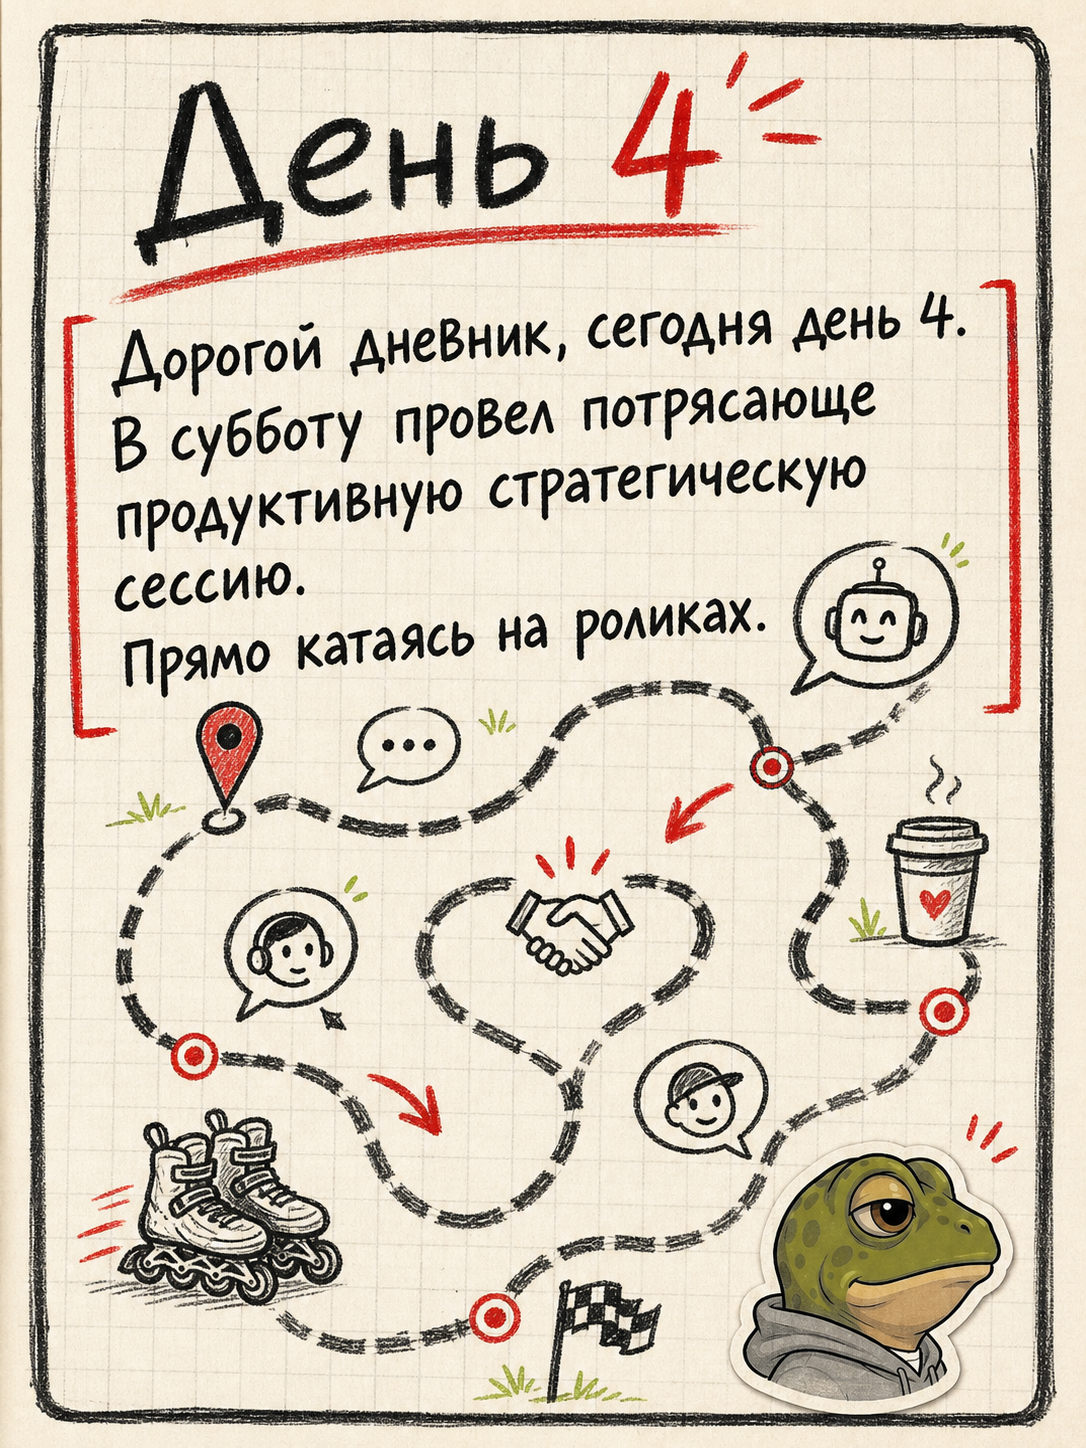
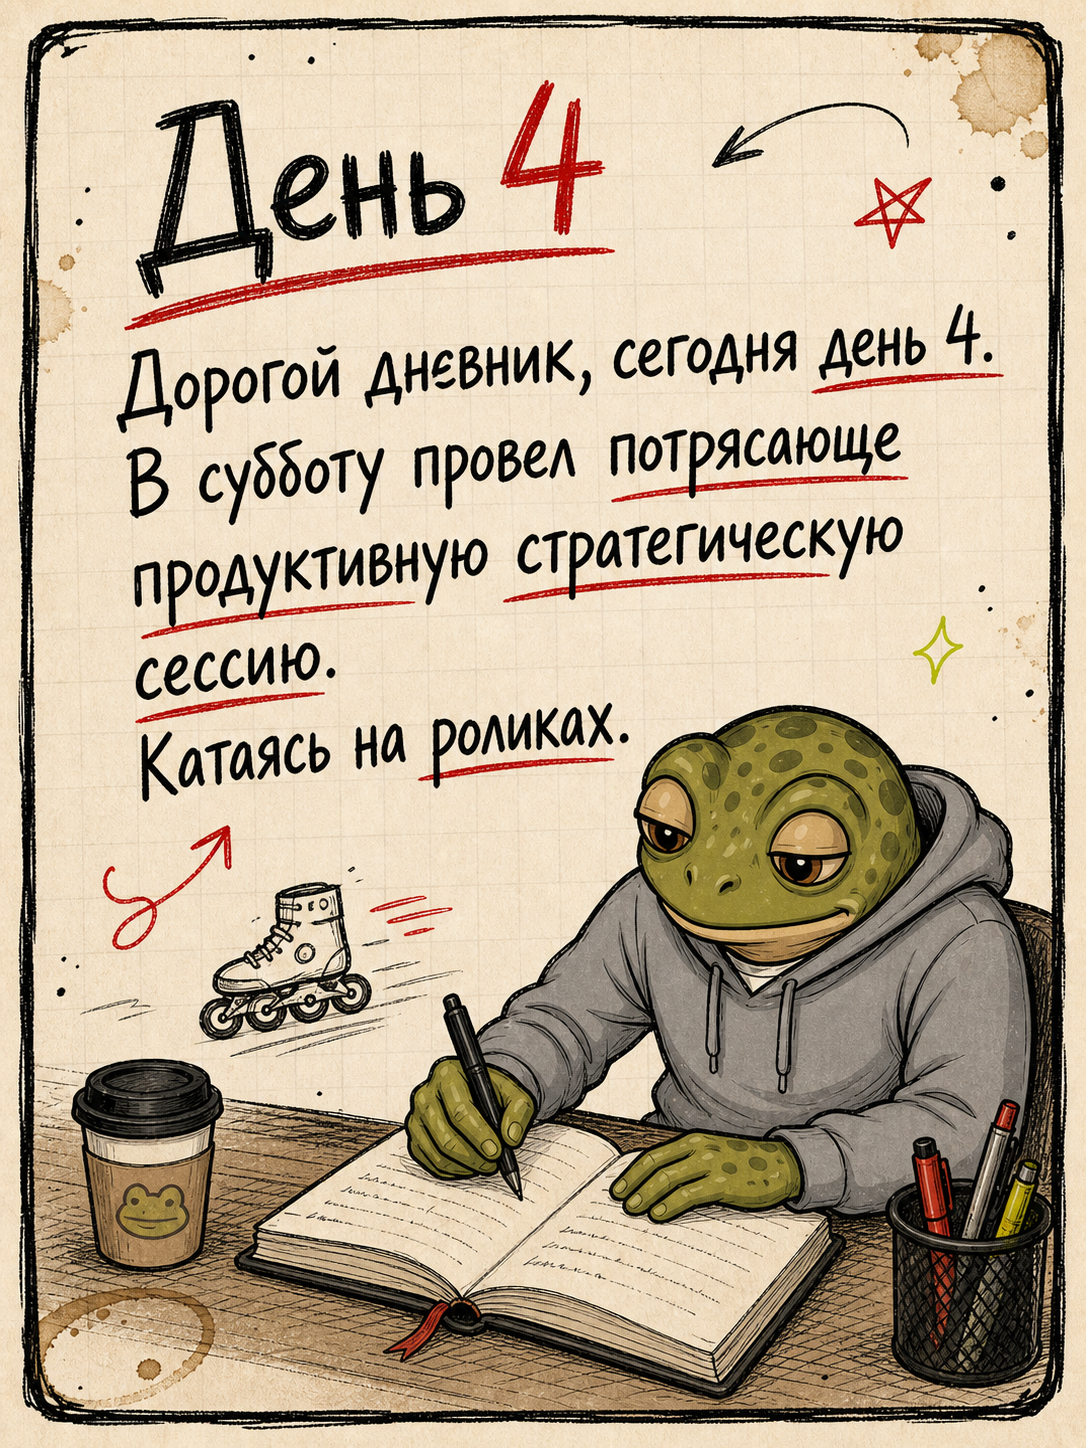
Regenerate day four first slide

diff --git a/src/lib/diaryFactory.ts b/src/lib/diaryFactory.ts
@@ -310,10 +310,10 @@ export const diaryEntry: DiaryEntry = {
       id: 'slide-01',
       index: 1,
       title: 'Слайд 1',
-      text: 'Дорогой дневник, сегодня день 4.\nВ субботу провел потрясающе\nпродуктивную стратегическую\nсессию.\nПрямо катаясь на роликах.',
+      text: 'Дорогой дневник, сегодня день 4.\nВ субботу провел потрясающе\nпродуктивную стратегическую\nсессию.\nКатаясь на роликах.',
       textVariants: fixedTextVariant(
         'День 4',
-        'Дорогой дневник, сегодня день 4.\nВ субботу провел потрясающе\nпродуктивную стратегическую\nсессию.\nПрямо катаясь на роликах.',
+        'Дорогой дневник, сегодня день 4.\nВ субботу провел потрясающе\nпродуктивную стратегическую\nсессию.\nКатаясь на роликах.',
       ),
       variants: [],
     },
@@ -552,15 +552,20 @@ export function buildDiaryPrompt({
   const referenceList = diaryVisualContract.references
     .map((reference) => `- ${reference.path} (${reference.use})`)
     .join('\n');
+  const slideSceneInstruction =
+    index === 1
+      ? '\nSlide 1 scene: Frogface must be present, sitting at a small desk or open sketchbook, writing in a diary with one pen. Two arms only. Keep Frogface compact and let the Russian diary text remain dominant.'
+      : '';
+  const frogfacePresence = index === 1 ? 'required' : 'optional';
 
   return `Use case: ads-marketing
 Asset type: Instagram carousel diary slide ${index}, variant ${direction.id.toUpperCase()}, portrait 3:4 (1080x1440 feel)
 Primary request: Create a Frogface diary carousel slide in Russian.
 Scene/backdrop: warm off-white sketchbook paper, subtle square grid, thick imperfect black frame, coffee stains, pencil marks, small arrows, restrained red marker accents, tiny lime secondary accents. Do not use orange accents. Do not use tape/plaster strips as a repeating motif. No tower, no skyscraper, no skyline goal imagery.
-Visual direction: ${direction.description}.
+Visual direction: ${direction.description}.${slideSceneInstruction}
 Reference images for Frogface if character appears:
 ${referenceList}
-Frogface character rule: If Frogface appears, use the present-day etalon: olive/sage frog, tired kind brown half-lidded eyes, tan throat/chin, dark olive spots, clean grey hoodie with drawstrings and no logo, white undershirt, dark loose pants, white sneakers, coffee when useful. Frogface is optional for this slide.
+Frogface character rule: If Frogface appears, use the present-day etalon: olive/sage frog, tired kind brown half-lidded eyes, tan throat/chin, dark olive spots, clean grey hoodie with drawstrings and no logo, white undershirt, dark loose pants, white sneakers, coffee when useful. Frogface is ${frogfacePresence} for this slide.
 Style/medium: clean 2D comic sketchbook, hand-drawn black ink and marker, rough but intentional, premium personal diary/worldbuilding. Not photorealistic, not 3D, not Pixar, not glossy, not corporate SaaS.
 Composition/framing: generous safe margins for 3:4 Instagram carousel, readable on phone, no fake clutter.
 Color palette: off-white paper, black ink, olive/sage greens, warm tan, strong red accents, firefly lime secondary accents, graphite grey.

diff --git a/src/app/api/diary-factory/assets/route.ts b/src/app/api/diary-factory/assets/route.ts
@@ -1,4 +1,4 @@
-import { readdir, readFile } from 'node:fs/promises';
+import { readdir, readFile, stat } from 'node:fs/promises';
 import path from 'node:path';
 import { NextResponse } from 'next/server';
 import { resolveDiaryEntryDir } from '@/lib/diaryAssets.server';
@@ -44,6 +44,14 @@ export async function GET() {
   } catch {
     files = [];
   }
+  const versions = new Map(
+    await Promise.all(
+      files.map(async (file) => {
+        const fileStat = await stat(path.join(variantDir, file));
+        return [file.toLowerCase(), `${Math.round(fileStat.mtimeMs)}-${fileStat.size}`] as const;
+      }),
+    ),
+  );
 
   const slides = diaryEntry.slides.map((slide) => {
     const plannedSlide = generationPlan?.slides?.find((item) => item.id === slide.id);
@@ -55,6 +63,7 @@ export async function GET() {
         );
         const plannedVariant = plannedSlide?.variants?.find((item) => item.id === id);
         const ready = Boolean(fileName);
+        const version = fileName ? versions.get(fileName.toLowerCase()) : undefined;
 
         return {
           id,
@@ -62,7 +71,9 @@ export async function GET() {
           direction: plannedVariant?.label ?? direction.label,
           description: direction.description,
           fileName,
-          src: fileName ? `/diary/${diaryEntry.slug}/variants/${fileName}` : undefined,
+          src: fileName
+            ? `/diary/${diaryEntry.slug}/variants/${fileName}${version ? `?v=${version}` : ''}`
+            : undefined,
           prompt: plannedVariant?.label ?? direction.description,
           ready,
         };

diff --git a/src/components/carousel/SimpleCarouselPicker.tsx b/src/components/carousel/SimpleCarouselPicker.tsx
@@ -1,6 +1,5 @@
 'use client';
 
-import Image from 'next/image';
 import { useEffect, useMemo, useState } from 'react';
 import { diaryEntry } from '@/lib/diaryFactory';
 
@@ -236,12 +235,11 @@ export function SimpleCarouselPicker() {
                         >
                           <div className="relative aspect-[3/4] bg-[#e7e2d7]">
                             {variant.src ? (
-                              <Image
+                              // eslint-disable-next-line @next/next/no-img-element
+                              <img
                                 src={variant.src}
                                 alt={`${slide.id}-${variant.id}`}
-                                fill
-                                sizes="(min-width: 1280px) 25vw, (min-width: 640px) 50vw, 100vw"
-                                className="object-cover"
+                                className="h-full w-full object-cover"
                               />
                             ) : (
                               <div className="grid h-full place-items-center p-5 text-center font-mono text-xs font-black uppercase tracking-[0.14em] text-[#181814]/42">

diff --git a/public/diary/2026-07-04/source-notes.md b/public/diary/2026-07-04/source-notes.md
@@ -13,7 +13,7 @@ Raw Boss note:
 
 Locked script:
 
-1. Дорогой дневник, сегодня день 4. В субботу провел потрясающе продуктивную стратегическую сессию. Прямо катаясь на роликах.
+1. Дорогой дневник, сегодня день 4. В субботу провел потрясающе продуктивную стратегическую сессию. Катаясь на роликах.
 2. Болтал со своими агентами, договаривался с людьми и заодно сжег 1700 калорий.
 3. Проект Receptor допиливаем. Сейчас убираем строительные леса, которые нагородили, и готовим систему к пилотному подключению реального ресторана в понедельник.
 4. Нужно все упрощать. Нужно, чтобы пьяный человек мог понять, что там происходит, и сказать: "Вау, мне такое надо!"
